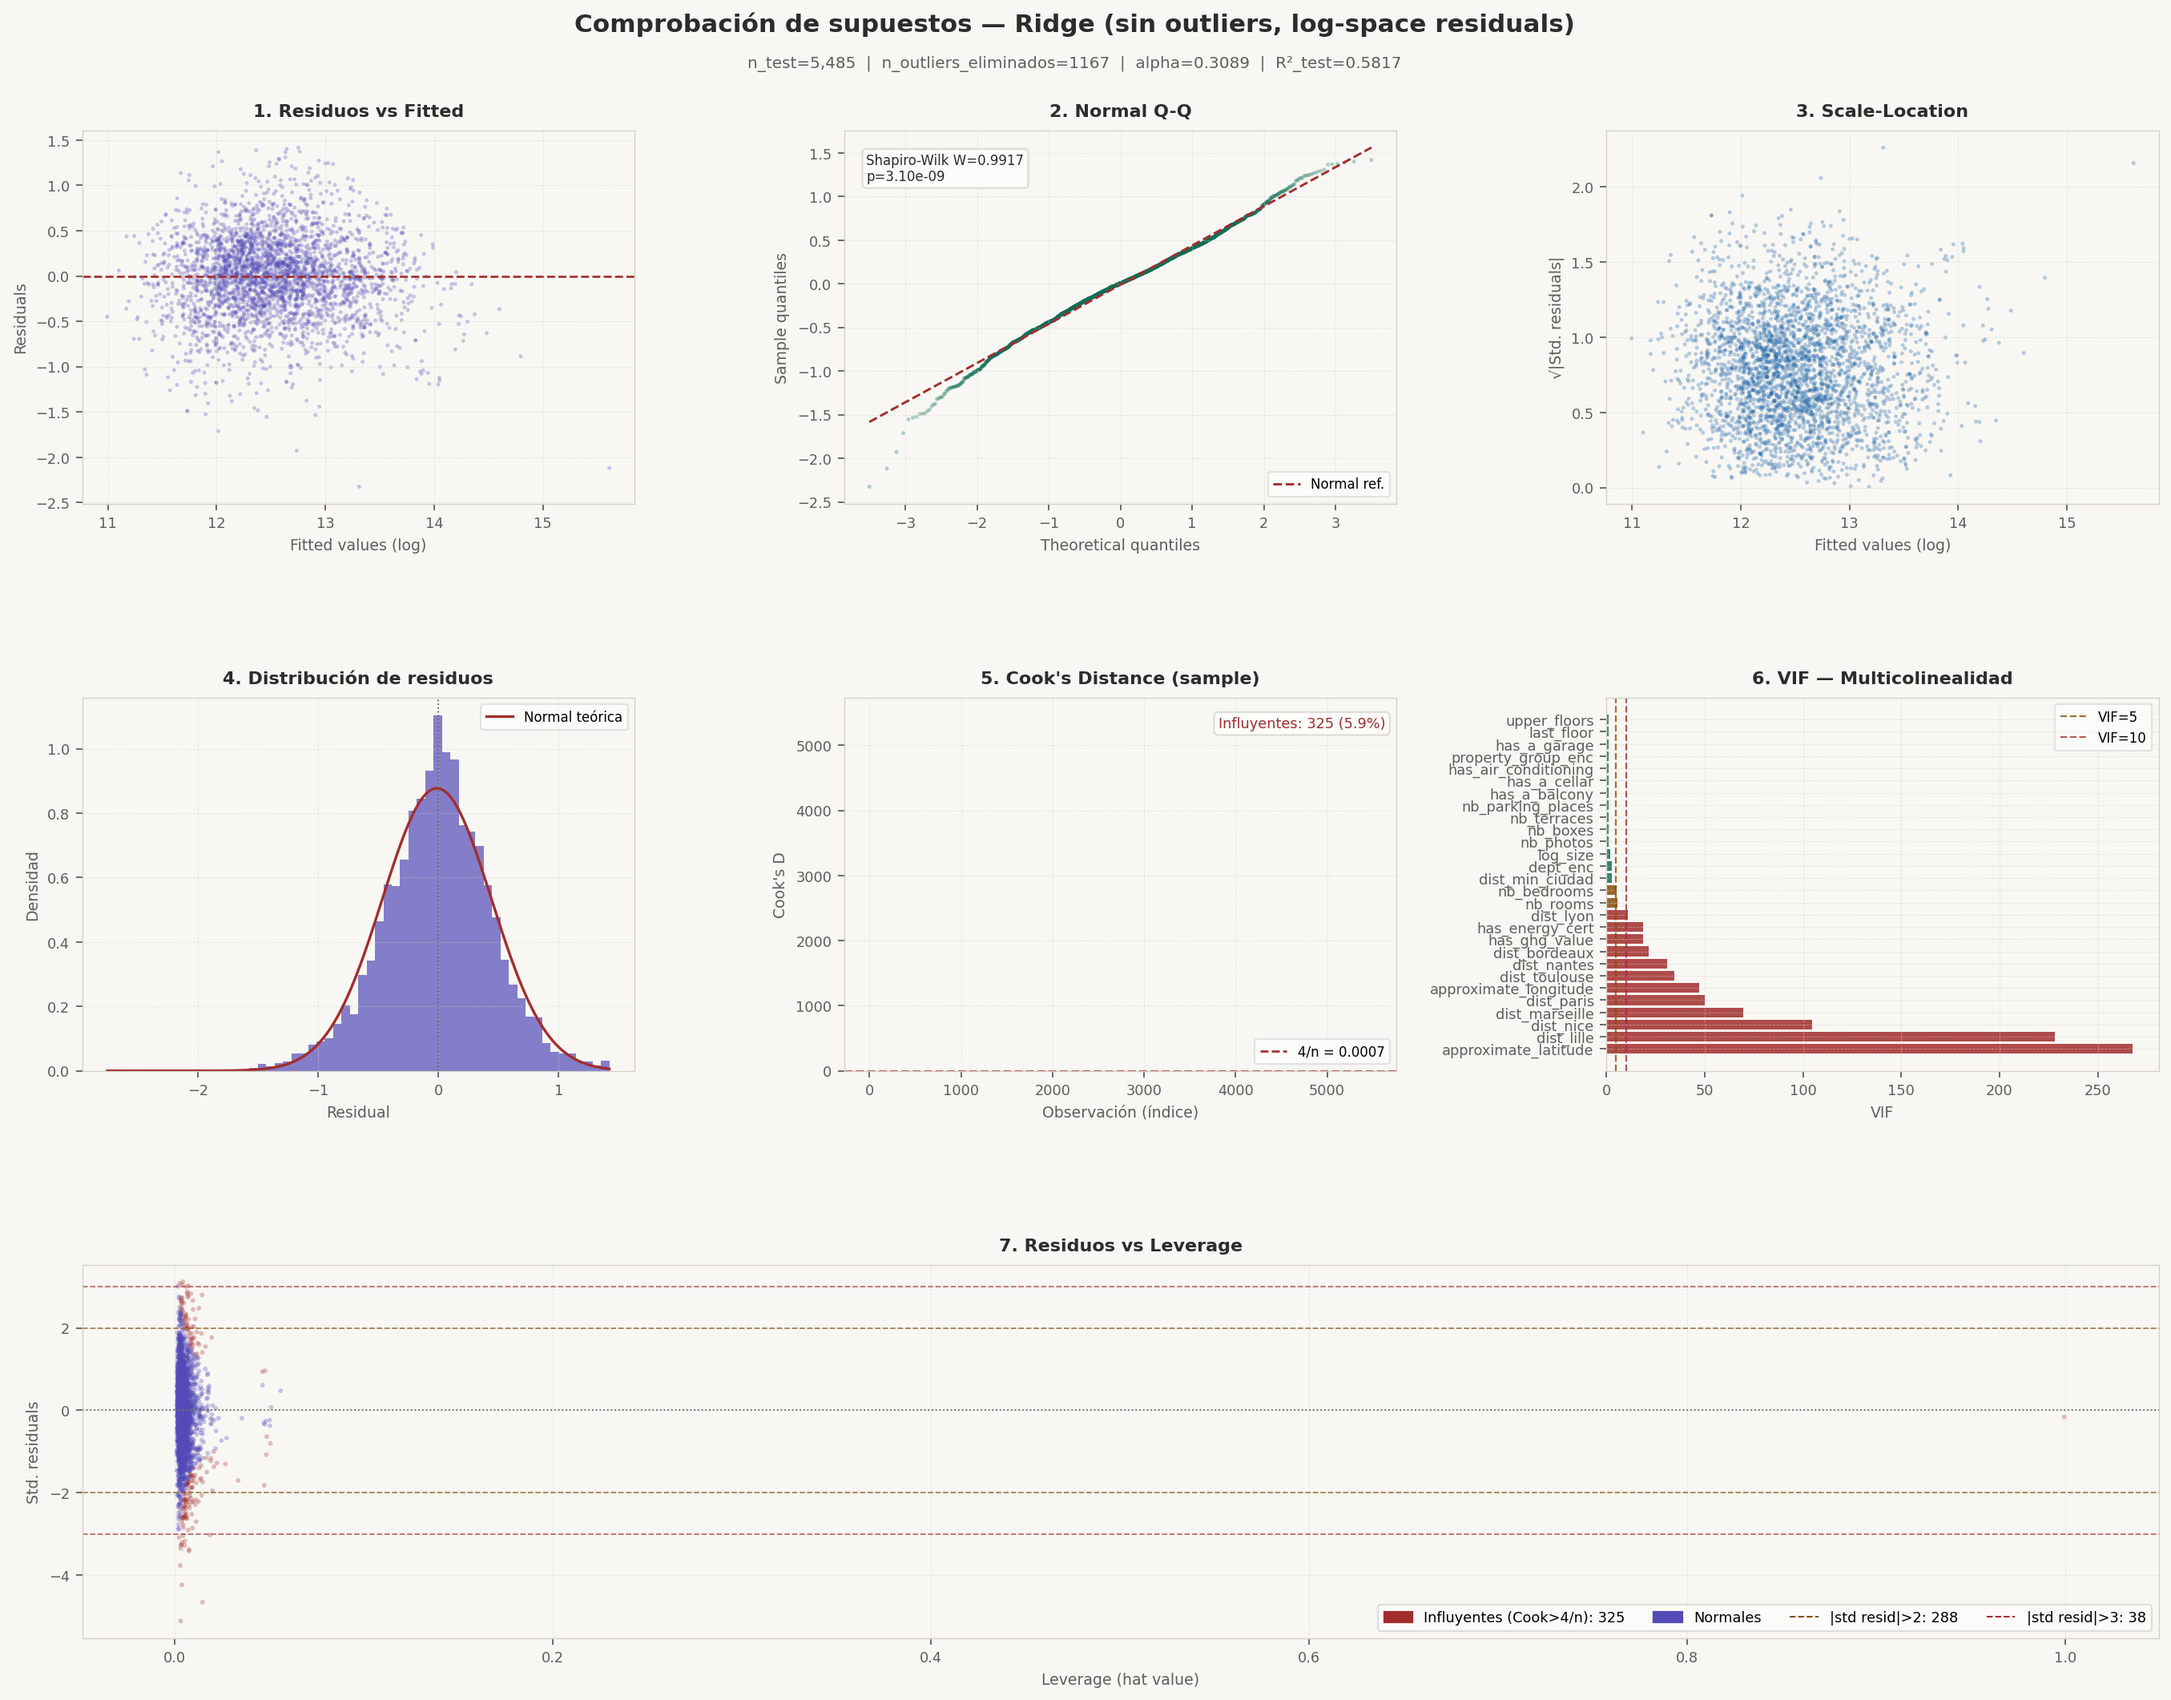
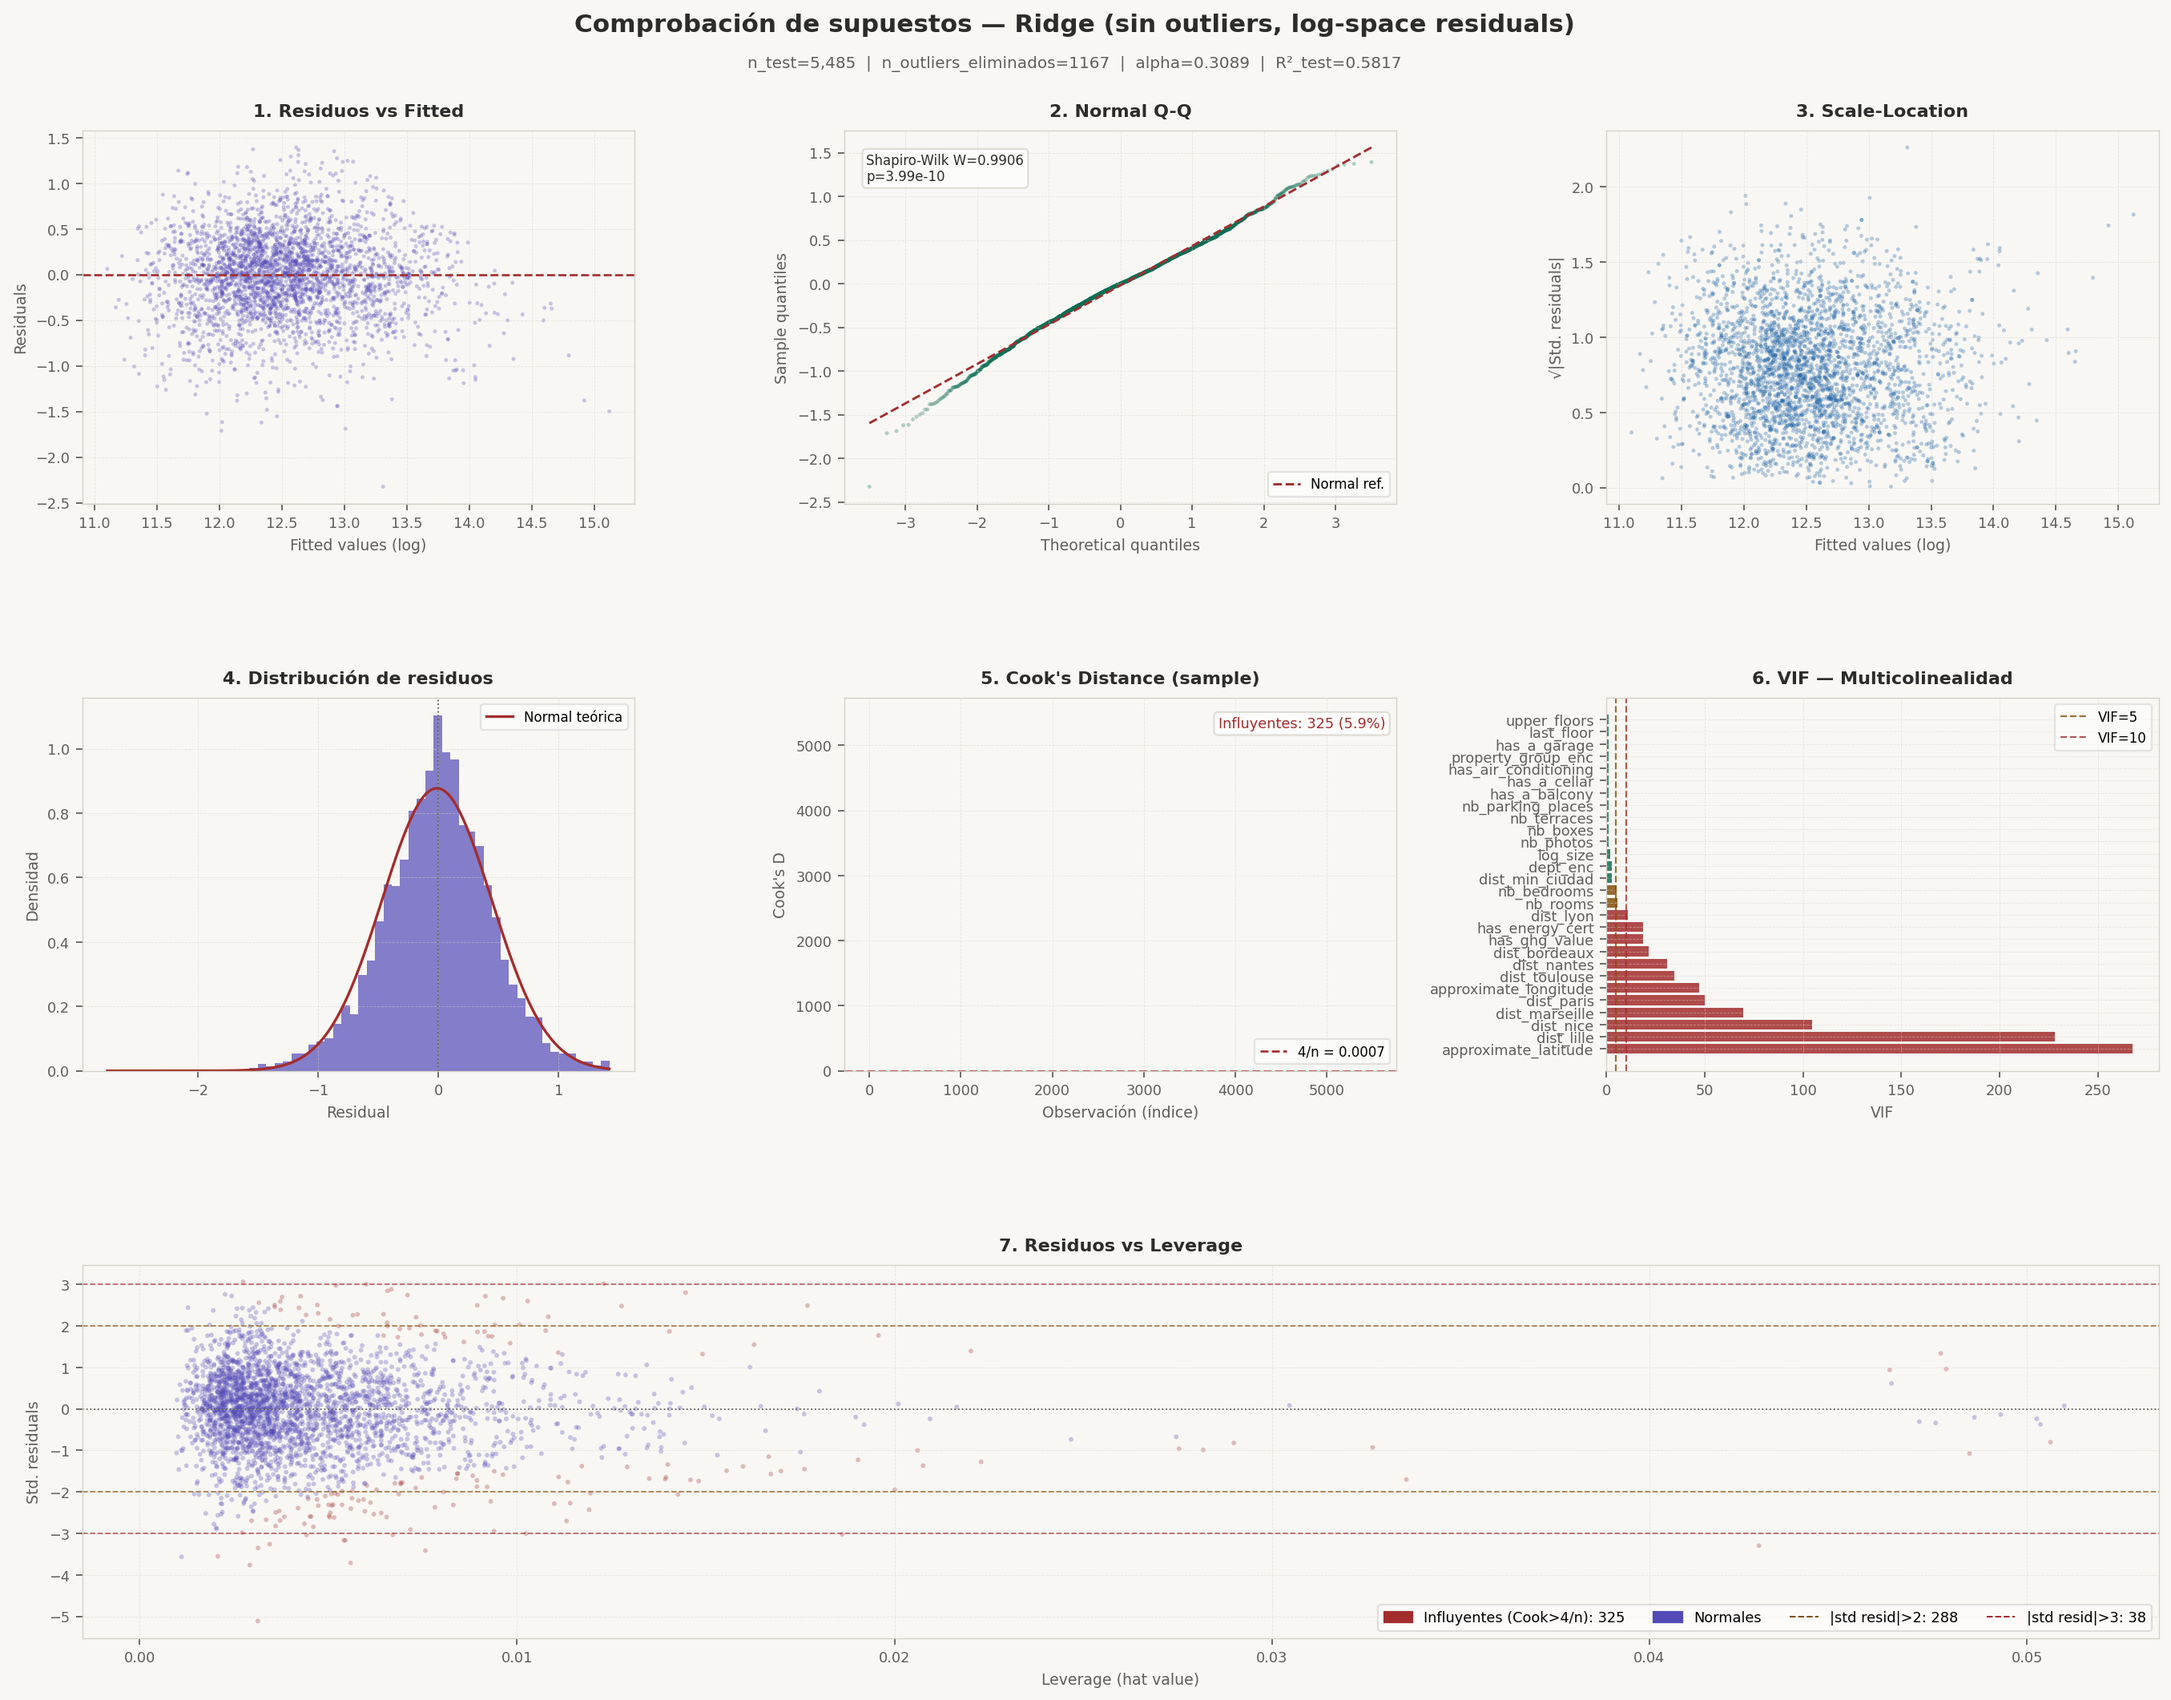
final version v2

diff --git a/Code/Models/lr.py b/Code/Models/lr.py
@@ -336,7 +336,7 @@ y_pred_log_clean, y_pred_clean = evaluar("MODELO SIN OUTLIERS", modelo_clean, X_
 # ------------------------------------------------------------------
 # 18. GUARDAR MODELO, PREDICCIONES Y MÉTRICAS
 # ------------------------------------------------------------------
-joblib.dump(modelo_clean, os.path.join(OUT_DIR, "linear_regression.pkl"))
+joblib.dump(modelo_clean, os.path.join(ROOT, 'models_pkl', "linear_regression.pkl"))
 
 pd.DataFrame({
     "y_real":        y_test,
